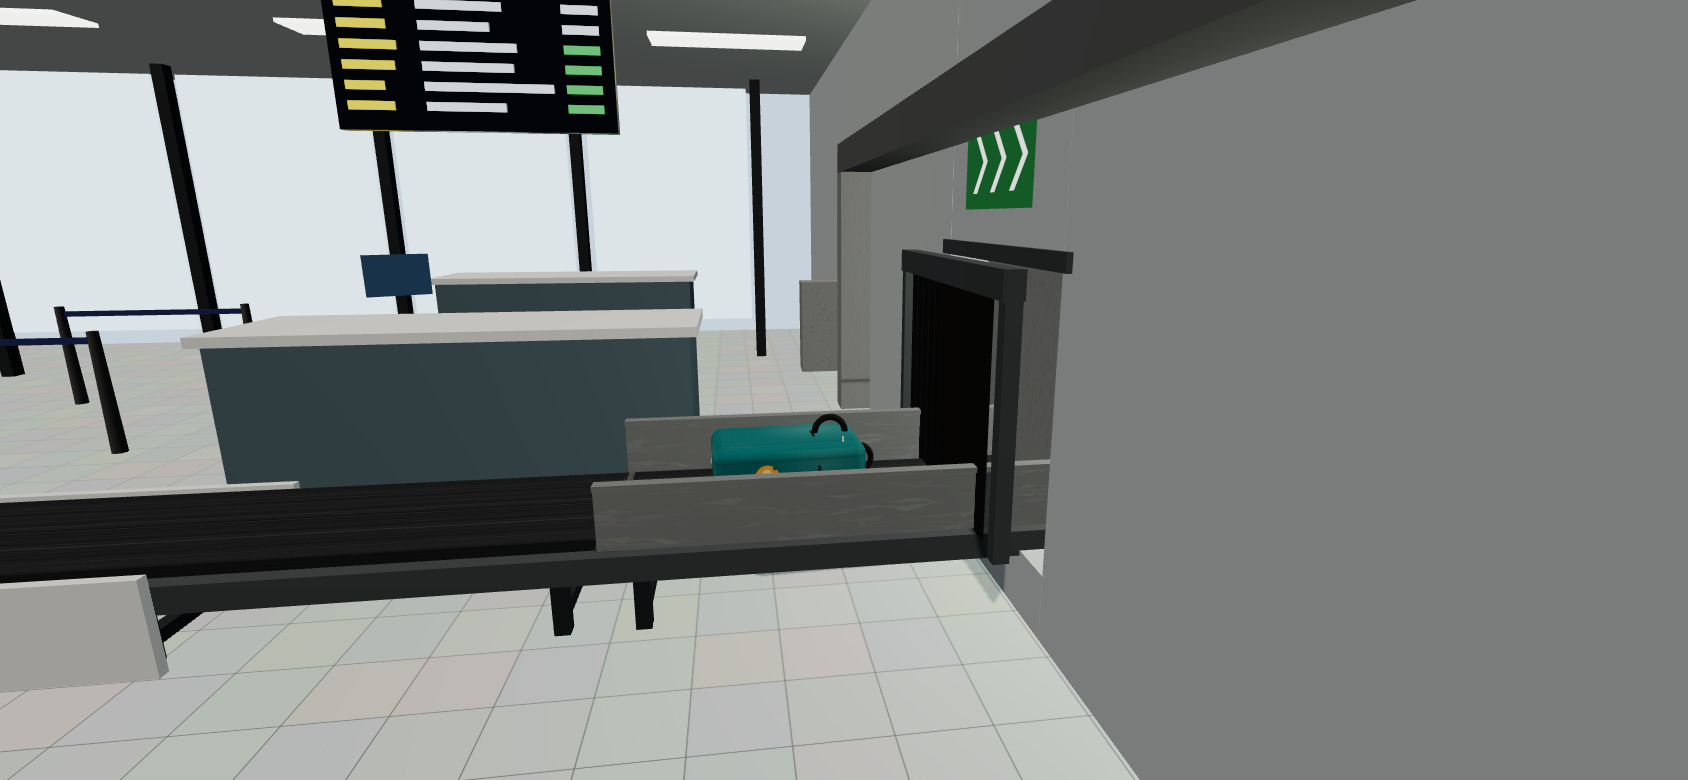
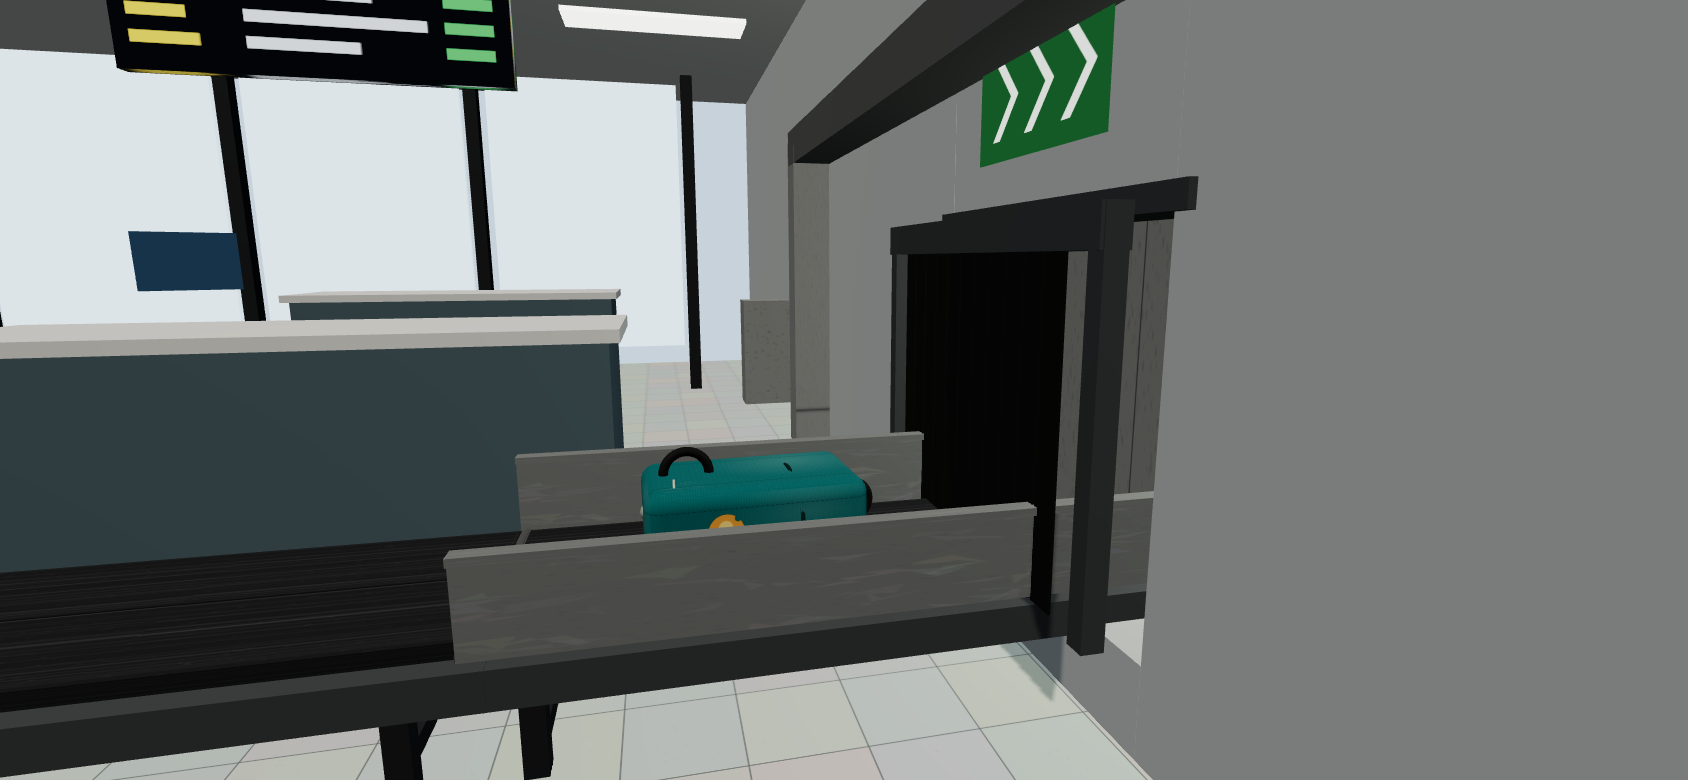
Polish: tag drape clear of shell, calmer screening interior, sorter paddle wear stripe, exhaust cone, scale display

diff --git a/src/bag.ts b/src/bag.ts
@@ -41,12 +41,12 @@ export class Bag {
     this.group.add(this.body);
 
     // crushed / scuffed corners: darker rubbed caps on two corners (asymmetric)
-    const scuffMat = new THREE.MeshStandardMaterial({ color: 0x9aa8a2, roughness: 0.95 });
+    const scuffMat = new THREE.MeshStandardMaterial({ color: 0x5f6a66, roughness: 0.95 });
     for (const [sx, sz] of [
       [-1, 1],
       [-1, -1],
     ] as const) {
-      const cap = new THREE.Mesh(new THREE.SphereGeometry(0.055, 8, 6), scuffMat);
+      const cap = new THREE.Mesh(new THREE.SphereGeometry(0.038, 8, 6), scuffMat);
       cap.position.set((Bag.L / 2 - 0.045) * sx, 0.055, (Bag.W / 2 - 0.045) * sz);
       cap.scale.set(1, 0.8, 1);
       this.body.add(
@@ -121,8 +121,8 @@ export class Bag {
     this.loop.add(loopMesh);
     // tied to the top handle, dangling over the leading top edge on the
     // camera side so the white tag stays readable the whole journey
-    this.loop.position.set(-Bag.L * 0.36, Bag.H + 0.045, 0.14);
-    this.loop.rotation.x = -0.35; // drape outward
+    this.loop.position.set(-Bag.L * 0.36, Bag.H + 0.045, 0.19);
+    this.loop.rotation.x = -0.55; // drape outward, clear of the shell
     this.group.add(this.loop);
 
     const cardMesh = new THREE.Mesh(
@@ -165,7 +165,7 @@ export class Bag {
       this.tagSideV * 5 * dt;
     this.tagSide += this.tagSideV * dt;
     this.loop.rotation.z = THREE.MathUtils.clamp(this.tagSwing, -1.2, 1.2) * 0.65;
-    this.loop.rotation.x = -0.35 + this.tagSide * 0.5;
+    this.loop.rotation.x = -0.55 + this.tagSide * 0.5;
     this.card.rotation.z = THREE.MathUtils.clamp(this.tagSwing, -1.2, 1.2) * 0.55;
     this.card.rotation.y = Math.sin(time * 2.9) * (0.06 + wind * 0.3 + Math.abs(speed) * 0.05);
 

diff --git a/src/world/screening.ts b/src/world/screening.ts
@@ -85,7 +85,7 @@ export function buildScreening(): Segment {
   // dark tunnel interior with a quiet inspection band
   const tunnel = new THREE.Mesh(
     new THREE.BoxGeometry(OUT_X - IN_X - 0.2, 0.75, 0.98),
-    new THREE.MeshStandardMaterial({ color: 0x0c0e10, roughness: 1, side: THREE.BackSide }),
+    new THREE.MeshStandardMaterial({ color: 0x17191c, roughness: 1, side: THREE.BackSide }),
   );
   tunnel.position.set(MID, BELT + 0.36, 0);
   g.add(tunnel);
@@ -165,8 +165,8 @@ export function buildScreening(): Segment {
     // bag inside window 0..1
     const inside = THREE.MathUtils.smoothstep(st.s, sIn - 0.2, sIn + 0.3) *
       (1 - THREE.MathUtils.smoothstep(st.s, sOut - 0.3, sOut + 0.2));
-    scanMat.emissiveIntensity = inside * (1.1 + Math.sin(st.time * 7) * 0.25);
-    scanLight.intensity = inside * 1.3;
+    scanMat.emissiveIntensity = inside * (0.45 + Math.sin(st.time * 7) * 0.1);
+    scanLight.intensity = inside * 0.4;
     lampAmberMat.emissiveIntensity = 0.15 + inside * 1.5;
     lampGreenMat.emissiveIntensity = 1.4 - inside * 1.1;
     // tag reader blink while the tag passes underneath

diff --git a/src/world/airside.ts b/src/world/airside.ts
@@ -184,9 +184,9 @@ export function buildAirside(): Segment {
     eng.castShadow = true;
     g.add(eng);
     // exhaust cone closes the nacelle rear
-    const exhaust = new THREE.Mesh(new THREE.CylinderGeometry(0.76, 0.3, 1.0, 16), M.steelDark);
+    const exhaust = new THREE.Mesh(new THREE.CylinderGeometry(0.6, 0.22, 0.8, 16), M.steelDark);
     exhaust.rotation.z = -Math.PI / 2;
-    exhaust.position.set(54.9, 1.55, FUSELAGE.z + 4.0 * sz);
+    exhaust.position.set(55.15, 1.55, FUSELAGE.z + 4.0 * sz);
     g.add(exhaust);
     const lip = new THREE.Mesh(new THREE.TorusGeometry(0.83, 0.07, 8, 24), M.steelDark);
     lip.rotation.y = Math.PI / 2;

diff --git a/src/world/terminal.ts b/src/world/terminal.ts
@@ -160,8 +160,8 @@ export function buildTerminal(): Segment {
     new THREE.BoxGeometry(0.34, 0.14, 0.05),
     new THREE.MeshStandardMaterial({ color: 0x101512, emissive: 0x2fae52, emissiveIntensity: 1.4 }),
   );
-  disp.position.set(-0.9, 0.62, 0.56);
-  disp.rotation.x = -0.35;
+  disp.position.set(-0.45, 0.24, 0.548);
+  disp.rotation.x = 0;
   g.add(disp);
 
   // flow chevron above the opening (shape-only guidance, points into the wall)

diff --git a/src/world/sorter.ts b/src/world/sorter.ts
@@ -74,6 +74,9 @@ export function buildSorter(): Segment {
   );
   armFace.position.set(0.75, 0.23, 0.075);
   arm.add(armFace);
+  const armEdge = new THREE.Mesh(new THREE.BoxGeometry(1.55, 0.05, 0.13), M.hazard);
+  armEdge.position.set(0.75, 0.47, 0);
+  arm.add(armEdge);
   const hub = new THREE.Mesh(new THREE.CylinderGeometry(0.11, 0.11, 0.55, 12), M.steelDark);
   hub.position.y = 0.26;
   arm.add(hub);
